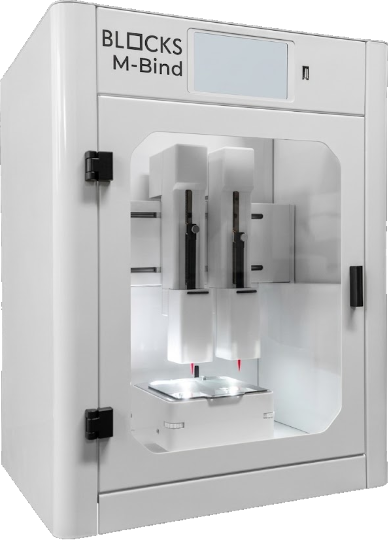
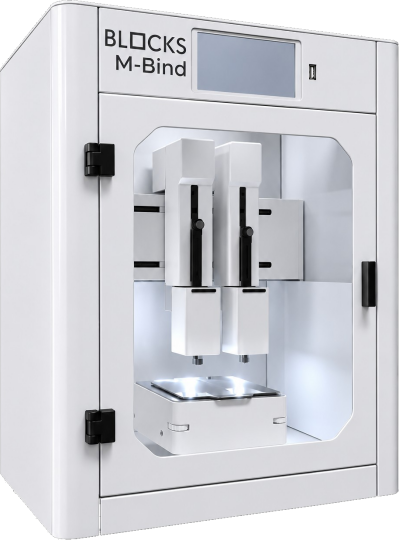
Modo de programador, botao no KlipperScreen e foto nova
Ecra, Atualizacoes e Reiniciar ficam atras de um codigo. atalho-ecra.sh acrescenta
ao KlipperScreen um botao para saltar para este ecra, sem mudar o arranque, e o
uninstall.sh desfaz. Foto da maquina nova e mais perto do centro.

diff --git a/MBindScreen/lib/panels/settingsTab.py b/MBindScreen/lib/panels/settingsTab.py
@@ -3,13 +3,14 @@ from __future__ import annotations
 
 from lib.i18n import tr
 import datetime
+import hashlib
 import logging
 import os
 import sys
 
 from lib import screenSwitch
 from lib import i18n
-from lib.panels.widgets.dialogs import choose, confirm
+from lib.panels.widgets.dialogs import choose, confirm, keyboard
 from lib.panels.networkPage import HotspotPage, NetworkPage
 from lib.panels.wifiPage import WifiPage
 from lib.utils.theme import ACCENT, DIM, RED
@@ -27,6 +28,7 @@ from PyQt6 import QtWidgets
 logger = logging.getLogger(__name__)
 OWN_UPDATE_NAME = "MBindScreen"
 MENU_COLUMNS = 2
+MINIMUM_CODE = 4
 
 
 def update_available(entry: dict) -> bool:
@@ -254,6 +256,12 @@ class RestartPage(SubPage):
             widget.setEnabled(not self.printer.is_printing)
 
 
+def developer_text(on: bool) -> str:
+    if on:
+        return tr("Ativo. Toca para sair.")
+    return tr("Código para mudar de ecrã, atualizar e reiniciar.")
+
+
 def restart_screen() -> None:
     """The same process starts again, under the same service, in the new language."""
     logger.info("Restarting the screen")
@@ -261,16 +269,20 @@ def restart_screen() -> None:
 
 
 class SettingsTab(QtWidgets.QStackedWidget):
-    def __init__(self, printer, api) -> None:
+    def __init__(self, printer, api, developer_code: str = "") -> None:
         super().__init__()
+        self.developer_code = developer_code
+        self.developer_on = False
         self.main = QtWidgets.QWidget()
         root = QtWidgets.QVBoxLayout(self.main)
         root.setContentsMargins(14, 12, 14, 12)
         root.setSpacing(8)
         root.addWidget(label(tr("Definições"), "pageTitle"))
-        grid = QtWidgets.QGridLayout()
-        grid.setSpacing(8)
-        root.addLayout(grid)
+        self.grid = QtWidgets.QGridLayout()
+        self.grid.setSpacing(8)
+        self.grid.setColumnStretch(0, 1)
+        self.grid.setColumnStretch(1, 1)
+        root.addLayout(self.grid)
         self.addWidget(self.main)
         self.messages = MessagesPage(printer, self.reset)
         back_to_network = lambda: self.setCurrentWidget(self.network)  # noqa: E731
@@ -284,26 +296,65 @@ class SettingsTab(QtWidgets.QStackedWidget):
         )
         self.addWidget(self.wifi)
         self.addWidget(self.hotspot)
+        updates = UpdatesPage(printer, api, self.reset)
+        screen = ScreenPage(printer, api, self.reset)
+        restart = RestartPage(printer, api, self.reset)
+        self.developer_pages = (updates, screen, restart)
         pages = (
             ("bell", tr("Mensagens"), tr("Avisos e consola do Klipper."), self.messages),
             ("wifi", tr("Rede"), tr("Ethernet, Wi-Fi e hotspot."), self.network),
             ("info", tr("Sistema"), tr("Versões e endereço de rede."), SystemPage(api, self.reset)),
             ("update", tr("Atualizações"), tr("Estado do que o Moonraker atualiza."),
-             UpdatesPage(printer, api, self.reset)),
+             updates),
             ("screen", tr("Ecrã"), tr("Mudar para o KlipperScreen."),
-             ScreenPage(printer, api, self.reset)),
+             screen),
             ("power", tr("Reiniciar"), tr("Klipper, firmware e computador."),
-             RestartPage(printer, api, self.reset)),
+             restart),
         )
-        for index, (icon_name, title, description, page) in enumerate(pages):
+        self.rows = {}
+        for icon_name, title, description, page in pages:
             self.addWidget(page)
             row = ListRow(icon_name, title, description)
             row.clicked.connect(lambda p=page: self.setCurrentWidget(p))
-            grid.addWidget(row, index // MENU_COLUMNS, index % MENU_COLUMNS)
+            self.rows[page] = row
         self.language = ListRow("language", tr("Idioma"), i18n.LANGUAGES[i18n.language()])
         self.language.clicked.connect(self._choose_language)
-        grid.addWidget(self.language, len(pages) // MENU_COLUMNS, len(pages) % MENU_COLUMNS)
+        self.developer = ListRow(
+            "settings", tr("Modo de programador"), developer_text(False)
+        )
+        self.developer.clicked.connect(self._toggle_developer)
+        self.developer_rows = [self.rows[p] for p in self.developer_pages]
         root.addStretch()
+        self._arrange()
+
+    def _arrange(self) -> None:
+        """Rows hidden from everyday use leave no holes in the grid."""
+        rows = [row for row in self.rows.values()
+                if self.developer_on or row not in self.developer_rows]
+        for row in self.rows.values():
+            row.setVisible(row in rows)
+        for index, row in enumerate([*rows, self.language, self.developer]):
+            self.grid.addWidget(row, index // MENU_COLUMNS, index % MENU_COLUMNS)
+
+    def _toggle_developer(self) -> None:
+        if self.developer_on:
+            self._set_developer(False)
+            return
+        keyboard(self, tr("Código de programador"), self._check_code, MINIMUM_CODE, "OK")
+
+    def _check_code(self, code: str) -> None:
+        digest = hashlib.sha256(code.encode("utf-8")).hexdigest()
+        if digest == self.developer_code:
+            self._set_developer(True)
+        else:
+            logger.info("Developer mode: wrong code")
+            self.developer.description.setText(tr("Código errado."))
+
+    def _set_developer(self, on: bool) -> None:
+        logger.info("Developer mode: %s", on)
+        self.developer_on = on
+        self.developer.description.setText(developer_text(on))
+        self._arrange()
 
     def _choose_language(self) -> None:
         options = [(name, code) for code, name in i18n.LANGUAGES.items()]

diff --git a/tests/test_uninstall.py b/tests/test_uninstall.py
@@ -121,6 +121,68 @@ def test_the_hotspot_profile_goes_and_nothing_else_of_the_network(machine):
     assert network == ["nmcli connection delete MBind-hotspot"]
 
 
+SHORTCUT = (
+    'export MBINDSCREEN_UNIT_DIR="$HOME/units"; '
+    'bash "$HOME/MBindScreen/scripts/atalho-ecra.sh" '
+)
+
+
+def prepare_shortcut(machine):
+    (machine.home / "units").mkdir()
+    (machine.stubs / "getent").write_bytes(b"#!/bin/bash\nexit 1\n")
+    (machine.stubs / "getent").chmod(0o755)
+    (machine.data / "moonraker.asvc").write_bytes(b"klipper\n")
+    python = machine.home / ".MBindScreen-env/bin/python"
+    python.parent.mkdir()
+    python.write_bytes(b"#!/bin/bash\n")
+    python.chmod(0o755)
+    conf = machine.data / "config/KlipperScreen.conf"
+    original = b"[main]\nx: 1\n\n#~# --- Do not edit below this line --- #~#\n#~# [main]\n"
+    conf.write_bytes(original)
+    return conf, original
+
+
+def test_shortcut_adds_the_button_above_the_klipperscreen_section(machine):
+    conf, _ = prepare_shortcut(machine)
+    done = run(machine, SHORTCUT + "instalar")
+    assert done.returncode == 0, done.stdout + done.stderr
+    text = conf.read_text()
+    assert text.index("more mbindscreen") < text.index("#~#")
+    assert '"service": "MBindScreen"' in text
+    assert b"MBindScreen" in (machine.data / "moonraker.asvc").read_bytes()
+    unit = (machine.home / "units/MBindScreen.service").read_text()
+    assert not {"MBS_USER", "MBS_DIR", "MBS_ENV", "MBS_GROUP_LINE"} & set(unit.split("/"))
+    assert "User=1000" in unit
+    assert "Conflicts=MBindScreen.service" in (
+        machine.home / "units/KlipperScreen.service.d/mbind-screen.conf").read_text()
+    assert "enable" not in calls(machine)  # the boot stays as it was
+    assert "restart moonraker" in calls(machine)
+
+
+def test_shortcut_twice_adds_one_button(machine):
+    conf, _ = prepare_shortcut(machine)
+    run(machine, SHORTCUT + "instalar")
+    run(machine, SHORTCUT + "instalar")
+    assert conf.read_text().count("more mbindscreen") == 1
+
+
+def test_removing_the_shortcut_restores_everything_exactly(machine):
+    conf, original = prepare_shortcut(machine)
+    run(machine, SHORTCUT + "instalar")
+    done = run(machine, SHORTCUT + "remover")
+    assert done.returncode == 0, done.stdout + done.stderr
+    assert conf.read_bytes() == original
+    assert (machine.data / "moonraker.asvc").read_bytes() == b"klipper\n"
+    assert not list((machine.home / "units").iterdir())
+
+
+def test_uninstaller_also_takes_the_button_away(machine):
+    conf, original = prepare_shortcut(machine)
+    run(machine, SHORTCUT + "instalar")
+    assert run(machine, UNINSTALL).returncode == 0
+    assert conf.read_bytes() == original
+
+
 def test_a_section_after_the_block_survives(machine):
     conf = machine.data / "config/moonraker.conf"
     conf.write_bytes(f"[a]\nx: 1\n\n{BLOCK}\n[b]\ny: 2\n".encode())

diff --git a/tests/test_developer_mode.py b/tests/test_developer_mode.py
@@ -1,0 +1,66 @@
+"""Developer mode: what is hidden from everyday use, and the code that shows it."""
+import hashlib
+
+import pytest
+from conftest import click_button, top_dialog
+from lib.panels.mainWindow import SETTINGS
+from lib.panels.settingsTab import MENU_COLUMNS
+
+CODE = "9182"
+
+
+@pytest.fixture
+def tab(window, qtbot):
+    settings = window.settings
+    settings.developer_code = hashlib.sha256(CODE.encode()).hexdigest()
+    window.goto(SETTINGS)
+    qtbot.waitUntil(settings.developer.isVisible, timeout=1000)
+    return settings
+
+
+def enter(window, code):
+    window.settings.developer.clicked.emit()
+    dialog = top_dialog(window)
+    for digit in code:
+        click_button(dialog, digit)
+    click_button(dialog, "OK")
+
+
+def titles(tab):
+    return [row.title.text() for row in tab.rows.values() if not row.isHidden()]
+
+
+def test_screen_switch_updates_and_restart_start_hidden(tab):
+    assert titles(tab) == ["Mensagens", "Rede", "Sistema"]
+
+
+def test_the_right_code_shows_them(tab, window):
+    enter(window, CODE)
+    assert "Ecrã" in titles(tab) and "Atualizações" in titles(tab) and "Reiniciar" in titles(tab)
+
+
+def test_a_wrong_code_shows_nothing_and_says_so(tab, window):
+    enter(window, "0000")
+    assert titles(tab) == ["Mensagens", "Rede", "Sistema"]
+    assert tab.developer.description.text() == "Código errado."
+
+
+def test_leaving_hides_them_again(tab, window):
+    enter(window, CODE)
+    tab.developer.clicked.emit()
+    assert titles(tab) == ["Mensagens", "Rede", "Sistema"]
+
+
+def test_the_menu_keeps_no_holes(tab):
+    positions = {
+        tab.grid.getItemPosition(tab.grid.indexOf(row))[:2]
+        for row in (*tab.rows.values(), tab.language, tab.developer) if not row.isHidden()
+    }
+    expected = {(i // MENU_COLUMNS, i % MENU_COLUMNS) for i in range(len(positions))}
+    assert positions == expected
+
+
+def test_the_code_itself_is_not_in_the_source():
+    from configfile import DEFAULT_DEVELOPER_CODE
+
+    assert len(DEFAULT_DEVELOPER_CODE) == 64

diff --git a/MBindScreen/configfile.py b/MBindScreen/configfile.py
@@ -12,6 +12,8 @@ REPO_CONFIG = pathlib.Path(__file__).resolve().parent.parent / "MBindScreen.cfg"
 MACHINE_CONFIG = pathlib.Path.home() / "printer_data" / "config" / "MBindScreen.cfg"
 # Same camera and same snapshot as NozzleSight ([ktamv] in calibracao/camara.cfg).
 DEFAULT_CALIBRATION_CAMERA = "/webcam2/snapshot?max_delay=0"
+# SHA-256 of the developer mode code. Each machine can have its own in MBindScreen.cfg.
[1 lines of base64/hex data omitted]
 
 
 @dataclasses.dataclass(frozen=True)
@@ -21,6 +23,7 @@ class ScreenConfig:
     sleep_minutes: int = 0
     calibration_camera: str = DEFAULT_CALIBRATION_CAMERA
     calibration_mirror: bool = True  # as in Mainsail: the head and the image go the same way
+    developer_code: str = DEFAULT_DEVELOPER_CODE
 
 
 def load_config() -> ScreenConfig:
@@ -35,4 +38,5 @@ def load_config() -> ScreenConfig:
             "camera", "calibration", fallback=DEFAULT_CALIBRATION_CAMERA
         ),
         calibration_mirror=parser.getboolean("camera", "calibration_mirror", fallback=True),
+        developer_code=parser.get("screen", "developer_code", fallback=DEFAULT_DEVELOPER_CODE),
     )

diff --git a/MBindScreen/lib/panels/homeTab.py b/MBindScreen/lib/panels/homeTab.py
@@ -71,7 +71,7 @@ class HomeTab(QtWidgets.QWidget):
             column.addWidget(widget)
         column.addStretch()
         hero.addWidget(bar)
-        hero.addLayout(column, 3)
+        hero.addLayout(column, 1)
         photo = label()
         photo.setPixmap(
             QtGui.QPixmap(str(PHOTO)).scaledToHeight(
@@ -79,7 +79,7 @@ class HomeTab(QtWidgets.QWidget):
             )
         )
         photo.setAlignment(QtCore.Qt.AlignmentFlag.AlignCenter)
-        hero.addWidget(photo, 2)
+        hero.addWidget(photo, 1)
         root.addLayout(hero, 1)
 
         row = QtWidgets.QHBoxLayout()

diff --git a/MBindScreen/lib/panels/mainWindow.py b/MBindScreen/lib/panels/mainWindow.py
@@ -65,7 +65,7 @@ class MainWindow(QtWidgets.QWidget):
         self.syringes = SyringeTab(self.printer, self.api, self.runner)
         self.cameras = CamerasTab(self.api)
         self.calibration = CalibrationTab(self.printer, self.api, self.runner)
-        self.settings = SettingsTab(self.printer, self.api)
+        self.settings = SettingsTab(self.printer, self.api, config.developer_code)
         self.printing = PrintTab(self.printer, self.api)
         self.files = FilesPage(self.printer, self.api, lambda: self.goto(HOME))
         self.stack = QtWidgets.QStackedWidget()

diff --git a/MBindScreen/lib/i18n.py b/MBindScreen/lib/i18n.py
@@ -237,6 +237,12 @@ ENGLISH_TEXT = {
     # Settings
     "Definições": "Settings",
     "Idioma": "Language",
+    "Modo de programador": "Developer mode",
+    "Código de programador": "Developer code",
+    "Código para mudar de ecrã, atualizar e reiniciar.":
+        "Code to switch screens, update and restart.",
+    "Ativo. Toca para sair.": "On. Tap to leave.",
+    "Código errado.": "Wrong code.",
     "Português ou inglês.": "Portuguese or English.",
     "Mensagens": "Messages",
     "Sistema": "System",

diff --git a/docs/experimentar-na-maquina.md b/docs/experimentar-na-maquina.md
@@ -72,6 +72,19 @@ Por ordem, da mais simples para a mais drástica:
 3. Por SSH: `bash ~/MBindScreen/scripts/experimentar.sh parar`
 4. Reiniciar a máquina: `sudo reboot`, ou desligar e ligar.
 
+## Saltar do KlipperScreen para este ecrã sem linha de comandos
+
+Acrescenta o botão **Mais > MBindScreen** ao KlipperScreen. O arranque não muda: a máquina
+continua a ligar no KlipperScreen.
+
+```
+bash ~/MBindScreen/scripts/atalho-ecra.sh instalar
+```
+
+Reinicia o Moonraker e o KlipperScreen, e altera o `KlipperScreen.conf`, que está no git da
+configuração. Para desfazer: `atalho-ecra.sh remover`. Com este botão, os comandos atuam
+mesmo na máquina. Para voltar ao KlipperScreen: Definições > Modo de programador > Ecrã.
+
 ## Ver o que correu mal
 
 - Log: `~/printer_data/logs/MBindScreen.log`, também no Mainsail.

diff --git a/CLAUDE.md b/CLAUDE.md
@@ -66,6 +66,13 @@ python MBindScreen/MBindScreen.py --simulate
 - Com uma máquina na rede, ver dados reais sem risco:
   `python MBindScreen/MBindScreen.py --host <IP> --read-only`.
 
+## Modo de programador
+
+Definições > Modo de programador pede um código e mostra Ecrã, Atualizações e Reiniciar.
+O repositório guarda só o SHA-256 do código; cada máquina pode ter o seu em
+`[screen] developer_code` no `MBindScreen.cfg`. Fecha sozinho quando o ecrã reinicia.
+O código não está escrito em nenhum ficheiro deste repositório.
+
 ## Testar na máquina
 
 ```
